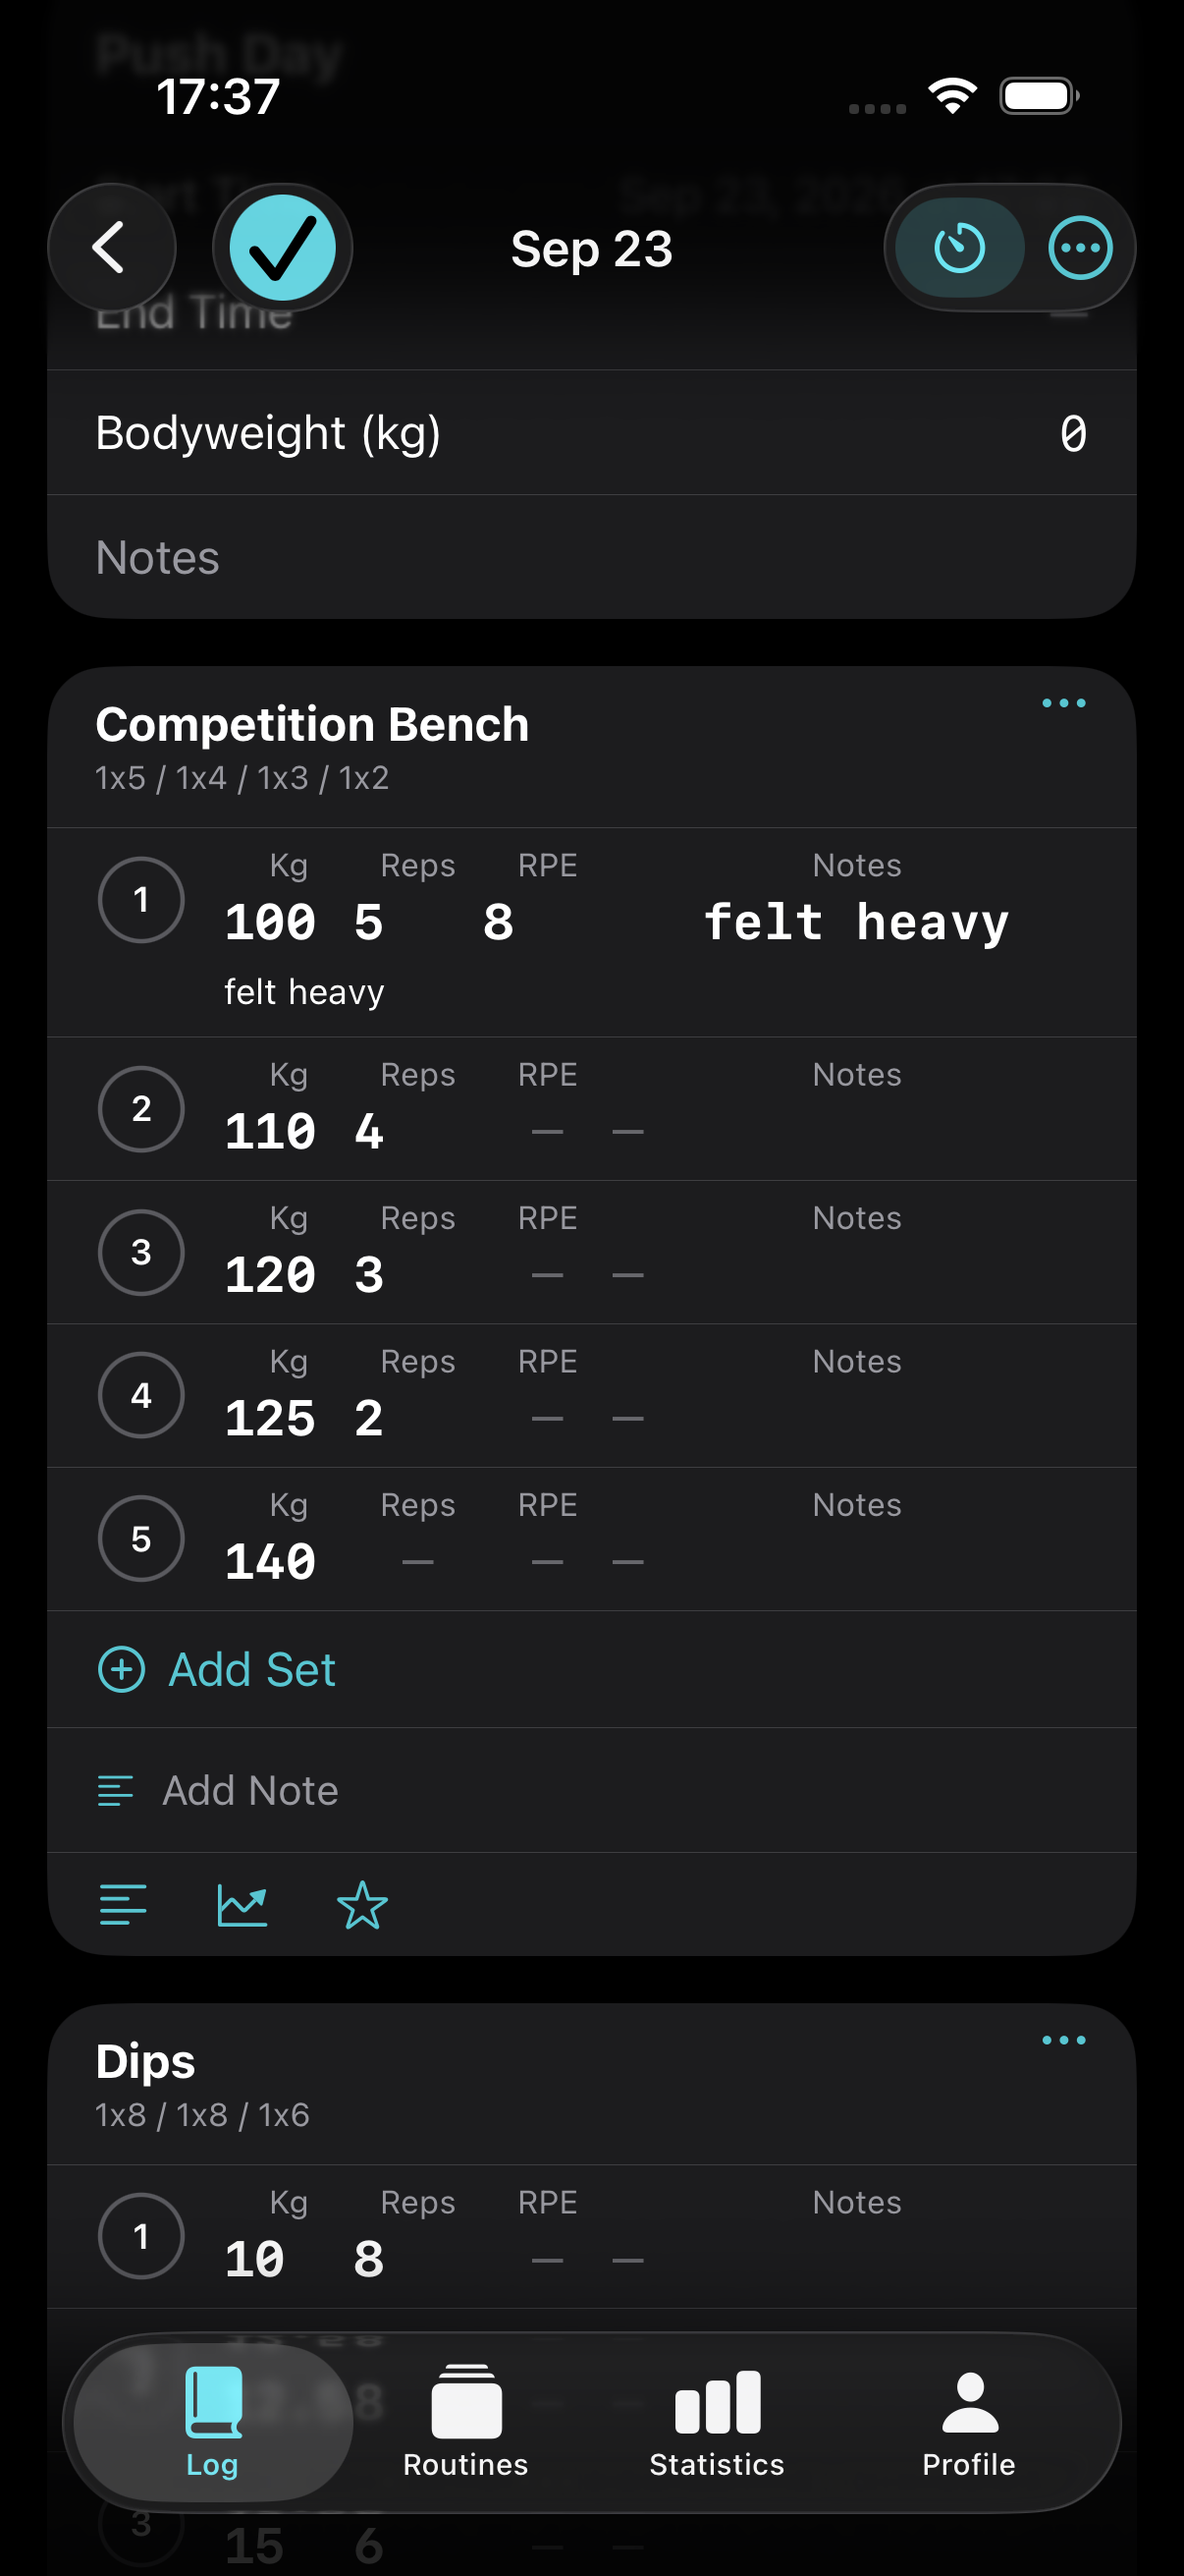
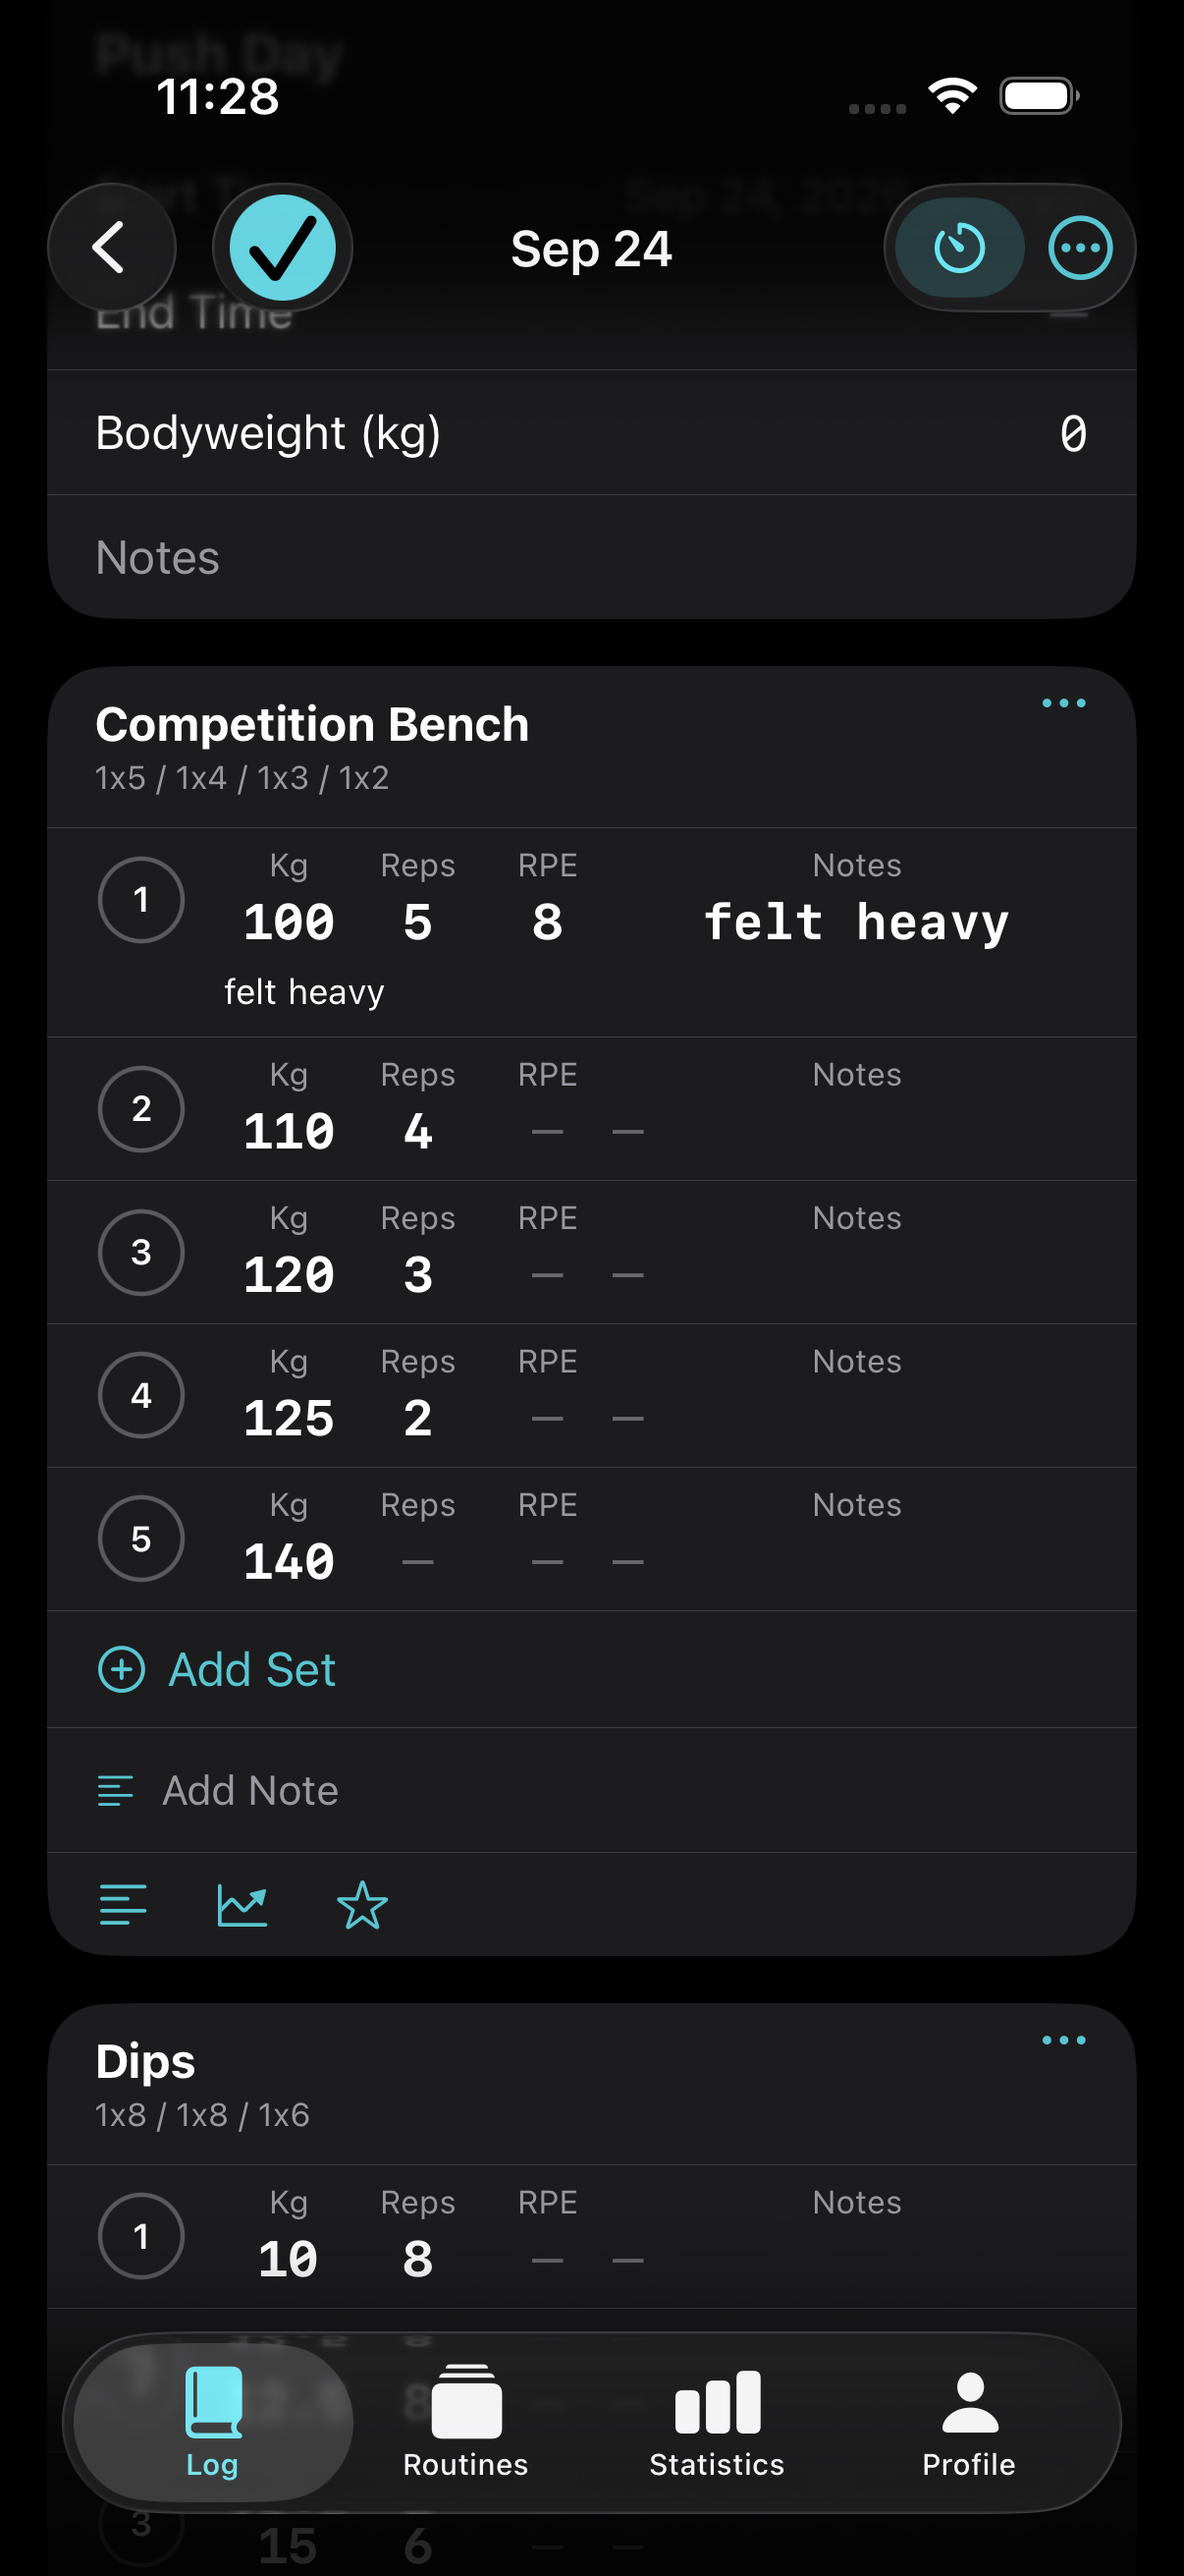
Docs: 1.0.1 pass section (gate at b07e0c5, the six items, the two iOS 26 dialog traps, the publish), refreshed captures for the affected screens, and the 10-test gate count

diff --git a/docs/BUILD-REPORT.md b/docs/BUILD-REPORT.md
@@ -102,6 +102,103 @@ change — those four screens are the ones whose layout moved.
 
 ---
 
+## 0.1 The six owner-reported fixes — gate re-run and re-publish (2026-09-24)
+
+The six fixes landed on 2026-09-23 (`4e228ab` → `a83f355`, 22:52–23:36) but
+two things were left undone, and the owner found both on the phone:
+
+1. **The published build was older than the fixes.** The IPA on the install
+   host was archived from `b4b1732` at 20:50 BST — three hours before them — so
+   installing 1.0.0 gave the pre-fix app. Nothing was re-archived or
+   re-published after the fixes.
+2. **The UI suite was red at that commit, not 7/7.** Five of the ten UI tests
+   failed (`testEditModeRevealsRowDelete`, `testFinishAsksBeforeEnding`,
+   `testOfflineDrill`, `testOpenWorkoutReopensEditorAfterLeavingIt`,
+   `testSessionRowOpensDetail`) — the finish-confirmation change had made the
+   tests' dialog queries unusable on iOS 26 (below). The earlier "7/7" figure
+   was true when the suite had seven tests; it was never re-established after
+   the suite grew to ten.
+
+Both are fixed at `b07e0c5`, and 1.0.1 is published (§0.1.5).
+
+### 0.1.1 Gate — one `bash scripts/mac-tests.sh` run at `b07e0c5`
+
+```
+** BUILD SUCCEEDED **
+✔ Test run with 36 tests in 5 suites passed after 0.221 seconds.
+Test Case '-[RepLogUITests.RepLogUITests testEditModeRevealsRowDelete]' passed (52.776 seconds).
+Test Case '-[RepLogUITests.RepLogUITests testExerciseSearchFilters]' passed (23.112 seconds).
+Test Case '-[RepLogUITests.RepLogUITests testFinishAsksBeforeEnding]' passed (37.209 seconds).
+Test Case '-[RepLogUITests.RepLogUITests testOfflineDrill]' passed (99.940 seconds).
+Test Case '-[RepLogUITests.RepLogUITests testOpenWorkoutReopensEditorAfterLeavingIt]' passed (46.898 seconds).
+Test Case '-[RepLogUITests.RepLogUITests testRPEChipsDisplayWholeValues]' passed (31.682 seconds).
+Test Case '-[RepLogUITests.RepLogUITests testRPEEntryTypes85AndReadsBack]' passed (30.482 seconds).
+Test Case '-[RepLogUITests.RepLogUITests testSessionRowOpensDetail]' passed (44.006 seconds).
+Test Case '-[RepLogUITests.RepLogUITests testSetNoteEntry]' passed (30.474 seconds).
+Test Case '-[RepLogUITests.RepLogUITests testSyncURLAndTokenFields]' passed (35.443 seconds).
+	 Executed 10 tests, with 0 failures (0 unexpected) in 432.021 (432.037) seconds
+** TEST SUCCEEDED **
+All Mac tests passed.
+```
+
+The suite is **ten** UI tests, not seven (`scripts/mac-tests.sh`'s header and
+the status block above now say 10/10).
+
+### 0.1.2 The six items, as the code stands
+
+| # | The owner's item | Where it lives now | Test |
+|---|---|---|---|
+| 1 | Delete a workout, local only; the uploaded copy stays | `Sync/SyncEngine.swift:100-106` (`sessionDeleted` drops the outbox entry and never calls the service), `Features/Log/SessionDetailView.swift:97-106` (`delete()` then `dismiss()`), `LogTabView.swift:61-70` (per-row trash in Edit mode) and `:180-188` (confirm + "It stays in the sync database…"). | `testEditModeRevealsRowDelete`; the drill asserts the CSV row count stays 1 after a phone delete and that no delete event is sent |
+| 2 | Never strand an open workout | `LogTabView.swift:112-124` (a session with no end time opens the EDITOR), `SessionRowView.swift:31-32` + `Models.swift:122` ("In progress"), `ActiveWorkoutView.swift:147` (End Time row always renders) | `testOpenWorkoutReopensEditorAfterLeavingIt` |
+| 3 | The finish checkmark must ask first | `ActiveWorkoutView.swift:59-70` (sets `confirmFinish`), `:124-129` (the dialog, with `finish-confirm` / `finish-cancel`) | `testFinishAsksBeforeEnding` |
+| 4 | Sync is a manual action at the top of the Log | `SyncEngine.swift:80-82` (the `NWPathMonitor` auto-upload is gone), `:110` (`syncNow`), `LogTabView.swift:192-232` (state text: "N to sync" / spinner / "Up to date · <relative>" / auth failure) | the drill: zero rows upload until the sync button is tapped, then exactly one upsert |
+| 5 | Centre the narrow set cells under their column titles | `Features/Workout/InlineCells.swift:33, 62, 83, 88-94` — narrow cells centre, only the wide Notes column is leading | capture `11-active-workout-populated.png` (100 / 5 / 8 sit under Kg / Reps / RPE) |
+| 6 | Drop the dead "Scheme" section from the routine-exercise editor | `Features/Routines/RoutinesViews.swift:358` — the read-only section is gone; the `scheme` model field and the set prefill (`StartWorkoutSheet.swift:70-78`) stay | capture `16-routine-exercise-editor.png` |
+
+Schemes are no longer editable anywhere in the app (`plannedScheme` is still
+shown read-only on the exercise card, and the routine's scheme lines still
+prefill a started workout). No data was migrated.
+
+### 0.1.3 Two iOS 26 traps the re-run exposed (in the tests, not the app)
+
+Measured on the iPhone 17 Pro simulator, 2026-09-24:
+
+- **A `confirmationDialog` button is nested.** `Button, identifier:
+  'finish-confirm'` sits INSIDE a second element with the same identifier, both
+  with the same frame, so `app.buttons["finish-confirm"]` raises *"Multiple
+  matching elements found"* on any attribute access (including `.exists` inside
+  a polling helper). Every dialog tap now goes through `.firstMatch`.
+  `app.buttons["Finish"]` (by label) had the same problem.
+- **The dialog has no reachable Cancel.** `app.descendants(matching: .any)`
+  matching a "Cancel" label returns **zero** elements, and the dialog is a
+  POPOVER pinned near the top of the screen (the button's frame starts at
+  y=132pt of 874) with no dimmed backdrop. Cancelling is therefore done by
+  tapping well below the card (`dx 0.5, dy 0.85`); a tap at `dy 0.12` lands
+  inside the card and does nothing, which is what silently broke two tests and
+  two captures.
+
+The tour and the tests both carry these notes now, so the next pass does not
+re-learn them.
+
+### 0.1.4 Captures refreshed
+
+`docs/visual/04-log.png` (sync control top-right), `11-active-workout-populated.png`
+(centred cells), and three new files: `12b-finish-confirm.png` (the dialog),
+`12c-log-in-progress.png` (the Log with the open workout marked "In progress"),
+`12d-open-workout-reopened.png` (tapping it reopens the editor), plus
+`16-routine-exercise-editor.png` (no Scheme section). `docs/UI-VISUAL-PASS.md`
+lists them and records both traps.
+
+### 0.1.5 Published
+
+1.0.1 (build 2) — `im.eamon.replog`, **661,378 bytes**, sha256
[1 lines of base64/hex data omitted]
+from `b07e0c5` through the Mac's GUI session, ad-hoc profile valid to
+2027-09-23 with the owner's iPhone UDID. The served file's sha256 was read back
+over HTTPS and matches. Install page: <https://replog.eamonmckiernan.im/replog/>.
+
+---
+
 ## 1. Test evidence (all real, all run)
 
 ### 1.1 The gate — `bash scripts/mac-tests.sh` (one run, pasted raw)
